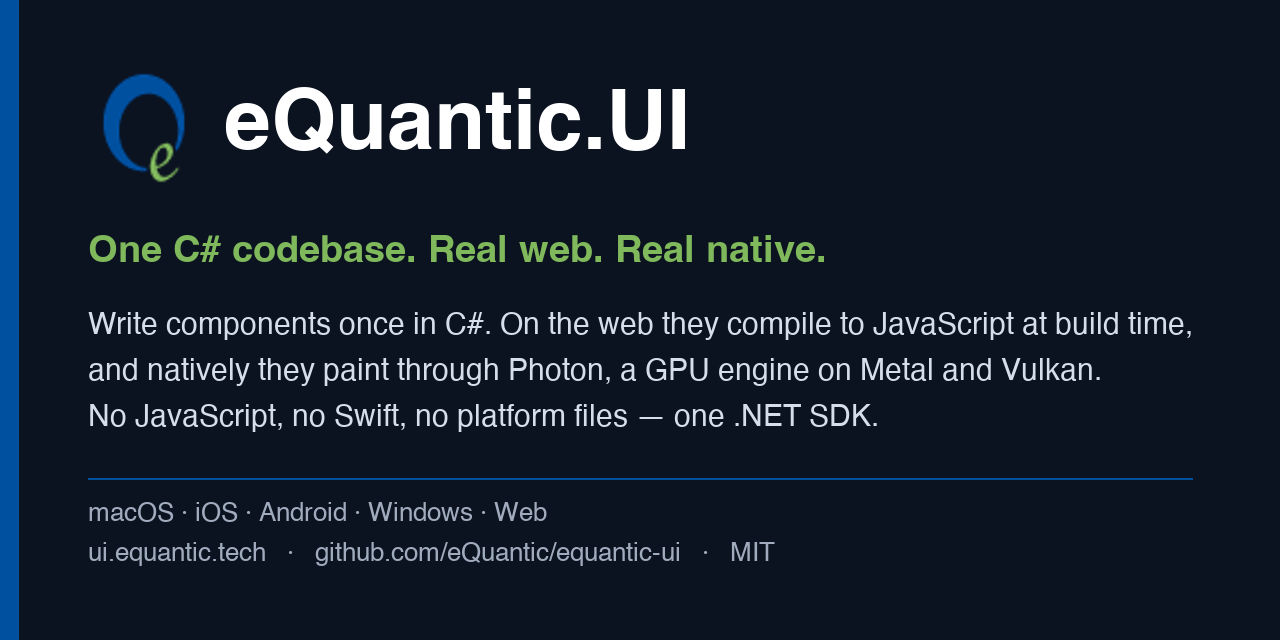
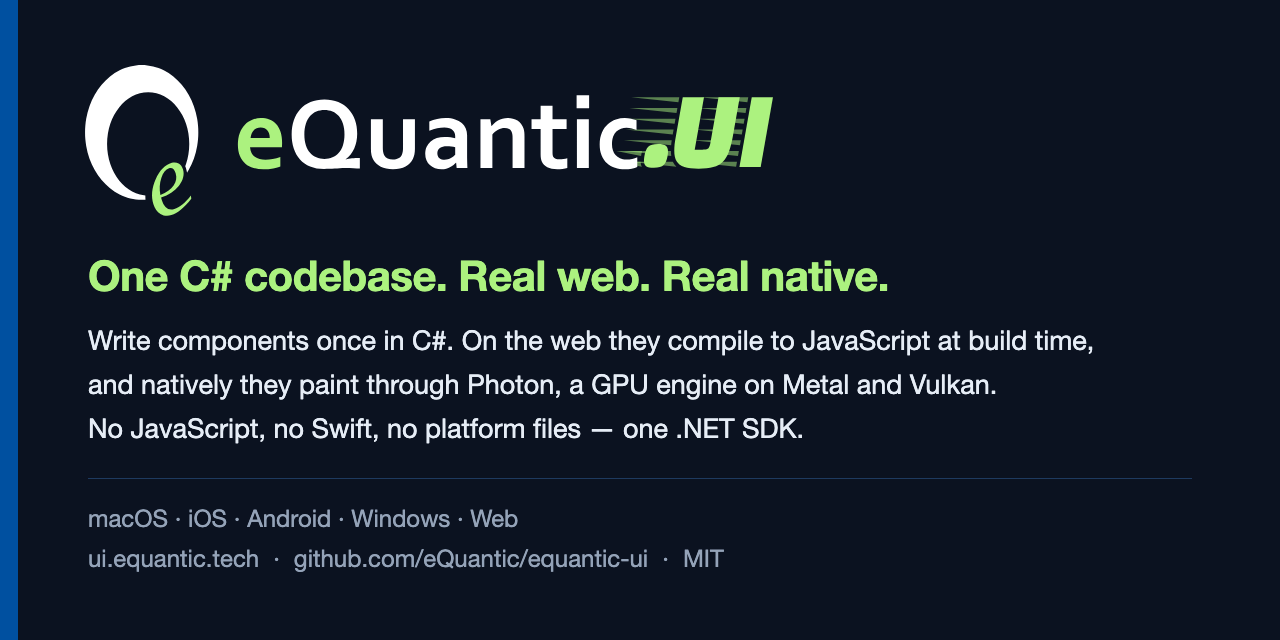
💄 style: the social preview carries the real wordmark (#144)
The first social-preview.png drew an approximation of the mark by hand. The
wordmark exists — the site's two cuts, logo-equantic-ui.svg and its white
variant — so both now live in assets/ and the preview is rendered from them:
social-preview.html is the source, headless Chrome the writer (the command is
in the file's own comment), and the tagline takes the green the white cut
carries (#ACF27F) instead of a guessed one. 1280×640, as GitHub asks.

Changed region(s): [[0.0625, 0.3438, 0.9375, 0.6875], [0.0625, 0.0938, 0.625, 0.3438], [0.0625, 0.7812, 0.625, 0.9062]]

diff --git a/assets/social-preview.html b/assets/social-preview.html
@@ -1,0 +1,32 @@
+<!doctype html>
+<!--
+  The source of assets/social-preview.png (GitHub's social preview, 1280×640). Regenerate with
+  headless Chrome from this folder — the page is static, the logo is the sibling SVG:
+
+    "/Applications/Google Chrome.app/Contents/MacOS/Google Chrome" --headless=new --disable-gpu \
+      --hide-scrollbars --force-device-scale-factor=1 --window-size=1280,640 \
+      --screenshot=social-preview.png "file://$PWD/social-preview.html"
+
+  Colours are the wordmark's own: its white cut carries #ACF27F for the green, so the tagline does.
+-->
+<html><head><meta charset="utf-8"><style>
+  html, body { margin: 0; width: 1280px; height: 640px; overflow: hidden; }
+  body { background: #0b1220; color: #ffffff; position: relative;
+         font-family: -apple-system, "Helvetica Neue", Helvetica, Arial, sans-serif; }
+  .bar { position: absolute; left: 0; top: 0; width: 18px; height: 640px; background: #0050a0; }
+  .logo { position: absolute; left: 84px; top: 64px; width: 690px; }
+  .tag { position: absolute; left: 88px; top: 250px; font-size: 42px; font-weight: 700; color: #acf27f; letter-spacing: -0.5px; }
+  .body { position: absolute; left: 88px; top: 318px; width: 1110px; font-size: 27px; line-height: 44px; color: #e6edf6; }
+  .rule { position: absolute; left: 88px; right: 88px; top: 478px; height: 1px; background: #1e3a5f; }
+  .foot { position: absolute; left: 88px; top: 498px; font-size: 24px; line-height: 40px; color: #94a3b8; }
+  .foot span { margin: 0 14px; }
+</style></head><body>
+  <div class="bar"></div>
+  <img class="logo" src="logo-equantic-ui-white.svg" alt="eQuantic.UI">
+  <div class="tag">One C# codebase. Real web. Real native.</div>
+  <div class="body">Write components once in C#. On the web they compile to JavaScript at build time,<br>
+    and natively they paint through Photon, a GPU engine on Metal and Vulkan.<br>
+    No JavaScript, no Swift, no platform files — one .NET SDK.</div>
+  <div class="rule"></div>
+  <div class="foot">macOS · iOS · Android · Windows · Web<br>ui.equantic.tech<span>·</span>github.com/eQuantic/equantic-ui<span>·</span>MIT</div>
+</body></html>
